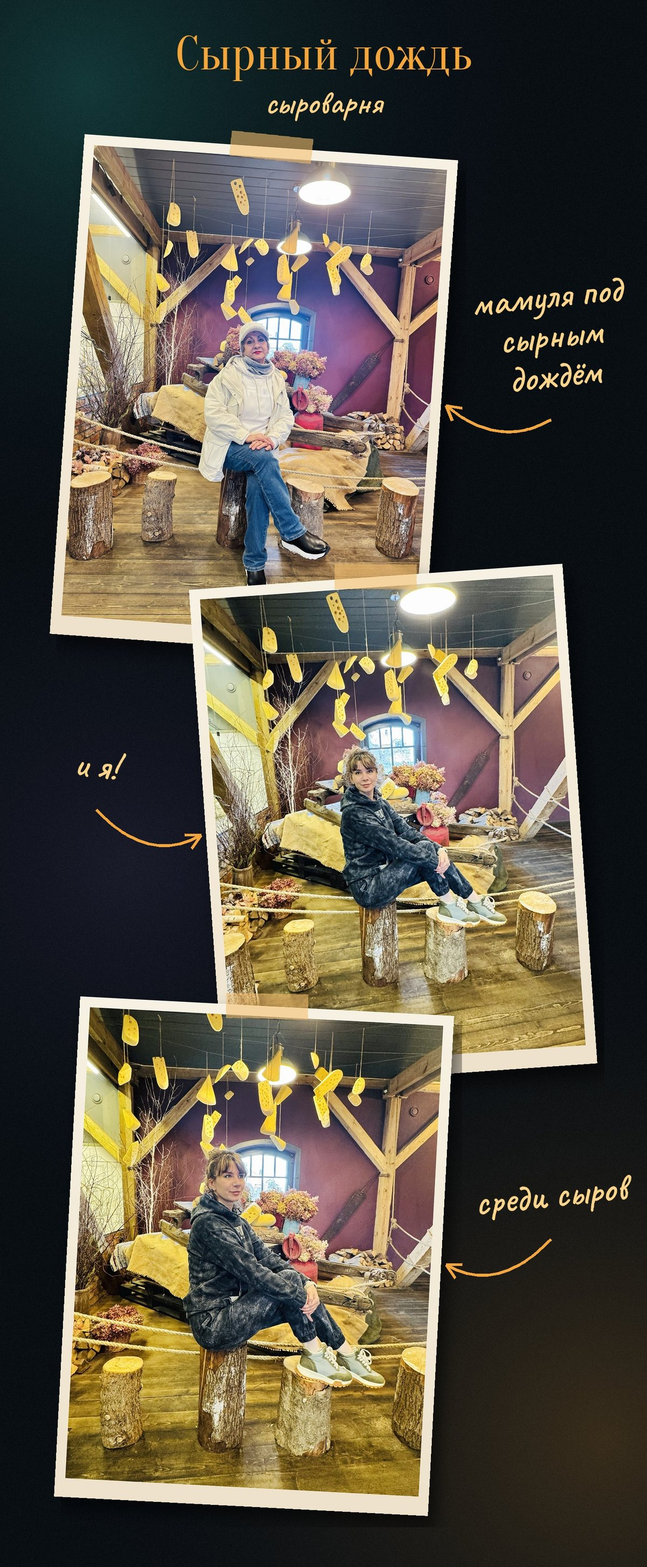
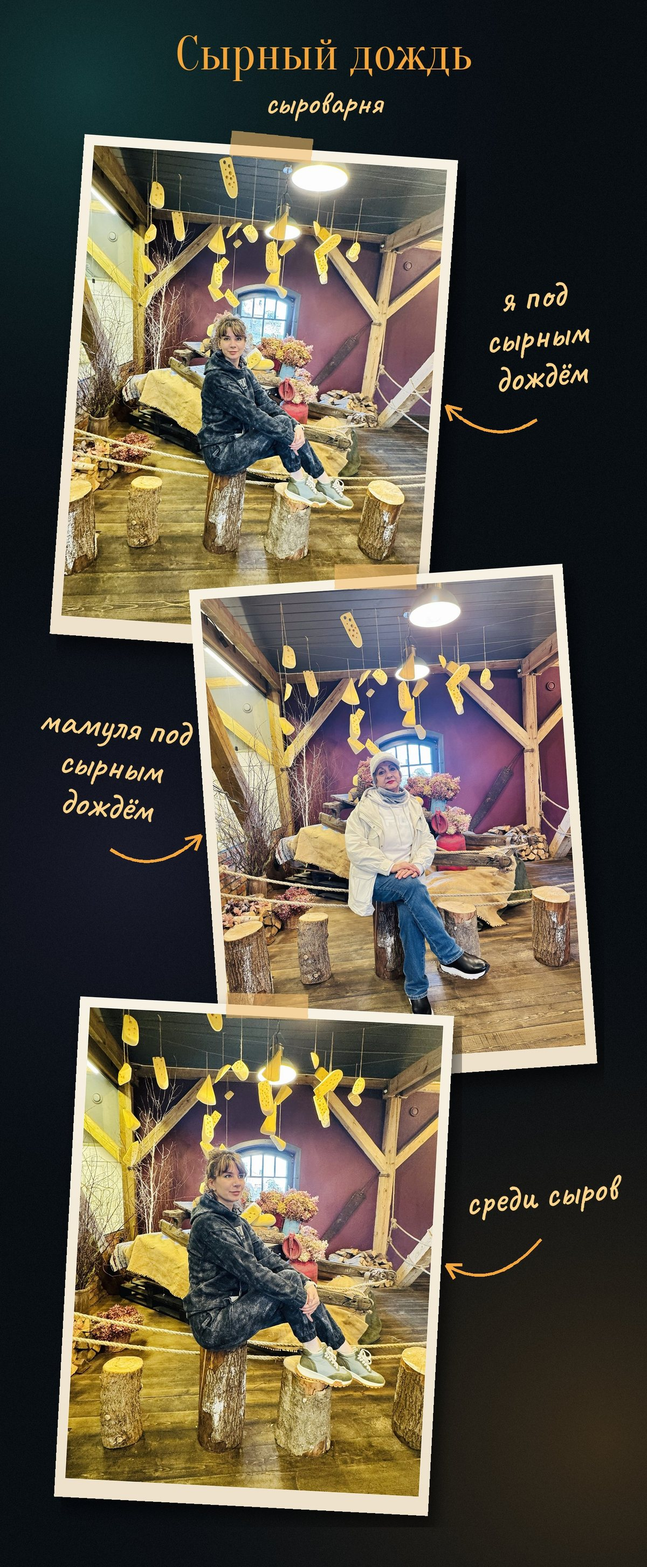
Альбом «Калининград»: страница «Сырный дождь» — мамуля в центре
По просьбе: сверху «я под сырным дождём», в центре «мамуля под сырным дождём», снизу «среди сыров».

Claude-Session: https://claude.ai/code/session_01BUmNQ2Kk9fTi5P6tnA3gYJ

diff --git a/kaliningrad/album/index.html b/kaliningrad/album/index.html
@@ -698,7 +698,7 @@ body.picking .wrap{padding-bottom:calc(var(--nav-h) + 230px + env(safe-area-inse
  {"id": "d2-40", "day": 2, "src": "photos/d2-40.jpg", "thumb": "photos/t/d2-40.jpg", "w": 1500, "h": 2000, "place": "shaaken", "title": "Шаакен: гнездо аиста и чёрный кот", "date": "2026-10-12"},
  {"id": "d2-41", "day": 2, "src": "photos/d2-41.jpg", "thumb": "photos/t/d2-41.jpg", "w": 1500, "h": 2000, "place": "shaaken", "title": "Руины замка Шаакен", "date": "2026-10-12"},
  {"id": "d2-93", "day": 2, "src": "photos/d2-93.jpg", "thumb": "photos/t/d2-93.jpg", "w": 1200, "h": 2452, "town": "sha", "title": "Сыроварня", "date": "2026-10-12", "collage": true},
- {"id": "d2-94", "day": 2, "src": "photos/d2-94.jpg", "thumb": "photos/t/d2-94.jpg", "w": 1200, "h": 2906, "town": "sha", "title": "Сырный дождь", "date": "2026-10-12", "collage": true},
+ {"id": "d2-94", "day": 2, "src": "photos/d2-94.jpg?v=2", "thumb": "photos/t/d2-94.jpg?v=2", "w": 1200, "h": 2906, "town": "sha", "title": "Сырный дождь", "date": "2026-10-12", "collage": true},
  {"id": "d2-48", "day": 2, "src": "photos/d2-48.jpg", "thumb": "photos/t/d2-48.jpg", "w": 1500, "h": 2000, "town": "sha", "title": "Я у саней с сырами", "date": "2026-10-12"},
  {"id": "d2-58", "day": 2, "src": "photos/d2-58.jpg", "thumb": "photos/t/d2-58.jpg", "w": 1280, "h": 1707, "town": "sha", "title": "Лавка с красными лентами", "date": "2026-10-12"},
  {"id": "d2-95", "day": 2, "src": "photos/d2-95.jpg", "thumb": "photos/t/d2-95.jpg", "w": 1200, "h": 2906, "town": "zel", "title": "Зеленоградск под дождём", "date": "2026-10-12", "collage": true},
